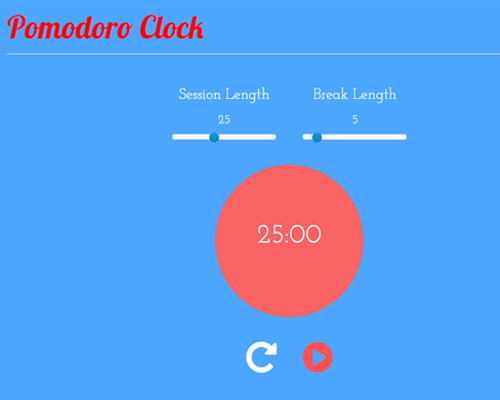
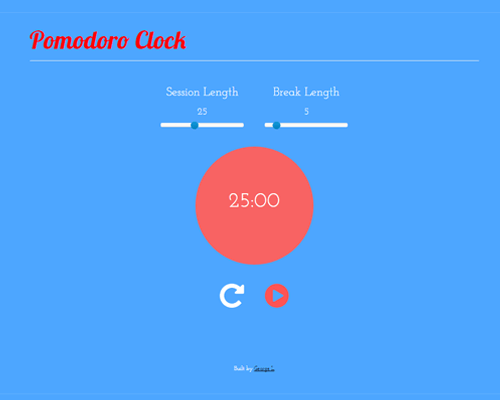
Add website to gallery. Fix some screenshots

diff --git a/index.html b/index.html
@@ -7,11 +7,11 @@
     <meta charset="utf-8">
     <title>George Loaiza</title>
     <meta name="description" content="My personal website">
-    <meta name="keywords" content = "George, Loaiza, website, portfolio, Spring Valley, Front End Developer, Programmer">
+    <meta name="keywords" content="George, Loaiza, website, portfolio, Spring Valley, Front End Developer, Programmer">
     <meta name="author" content="George Loaiza">
     <!-- Favicon
   –––––––––––––––––––––––––––––––––––––––––––––––––– -->
-   <link rel="shortcut icon" href="favicon.ico">
+    <link rel="shortcut icon" href="favicon.ico">
     <!-- Mobile Specific Metas
   –––––––––––––––––––––––––––––––––––––––––––––––––– -->
     <meta name="viewport" content="width=device-width, initial-scale=1">
@@ -24,7 +24,6 @@
     <link rel="stylesheet" href="https://maxcdn.bootstrapcdn.com/bootstrap/3.3.7/css/bootstrap.min.css">
     <link rel="stylesheet" href="https://maxcdn.bootstrapcdn.com/font-awesome/4.7.0/css/font-awesome.min.css">
     <link rel="stylesheet" href="css/style.css">
-    
     <!-- SCRIPTS------------------>
     <script src="https://ajax.googleapis.com/ajax/libs/jquery/1.12.4/jquery.min.js"></script>
     <script src="http://maxcdn.bootstrapcdn.com/bootstrap/3.3.7/js/bootstrap.min.js"></script>
@@ -32,35 +31,35 @@
 
 <body>
     <header id="header">
-       <div id = "nav anchor"></div>
+        <div id="nav anchor"></div>
         <nav>
-           <div class="container-fluid">
-           <div class="row">
-            <ul>
-               <div class="logo">
-                <li><a href="#header"> <i id="spaceman" class="fa fa-2x fa-grav" aria-hidden="true"></i> George Loaiza</a></li></div>
-                <div class="rest">
-                    <li><a href="#about">About</a></li>
-                    <li><a href="#gallery">Projects</a></li>
-                    <li><a href="#contact">Contact</a></li>
+            <div class="container-fluid">
+                <div class="row">
+                    <ul>
+                        <div class="logo">
+                            <li>
+                                <a href="#header"> <i id="spaceman" class="fa fa-2x fa-grav" aria-hidden="true"></i> George Loaiza</a>
+                            </li>
+                        </div>
+                        <div class="rest">
+                            <li><a href="#about">About</a></li>
+                            <li><a href="#gallery">Projects</a></li>
+                            <li><a href="#contact">Contact</a></li>
+                        </div>
+                    </ul>
                 </div>
-            </ul>
             </div>
-        </div>
         </nav>
-        
-        <div id ="hero" class="hero-text-box clearfix">
+        <div id="hero" class="hero-text-box clearfix">
             <div class="container">
                 <div class="row">
                     <div class="col-xs-12">
                         <h1>George Loaiza </h1></div>
                 </div>
                 <div class="col-xs-12">
-                    <h2>Front End Developer</h2></div> 
-                      <a class="btn-round btn-round-ghost js--scroll-to-gallery" href="#">
+                    <h2>Front End Developer</h2></div> <a class="btn-round btn-round-ghost js--scroll-to-gallery" href="#">
                        Check out my work
-                    </a> 
-                      <a class="btn-round btn-round-full js--scroll-to-contact " href="#">
+                    </a> <a class="btn-round btn-round-full js--scroll-to-contact " href="#">
                        Get in touch
                     </a> </div>
         </div>
@@ -75,7 +74,6 @@
                     <p class="about-blurb"> My lorem ipsum was two paragraphs long and i feel like this is a better representation of what my actual content would look like.</p>
                 </div>
                 <div class="col-md-4 col-sm-12"> <img id="profile" class="img-circle img-responsive" src="images/profile.png" alt="My profile picture"></div>
-
             </div>
         </div>
     </section>
@@ -86,110 +84,85 @@
                 <h2>Projects</h2>
                 <h3>Front End Projects</h3>
                 <div class="col-lg-4 col-sm-6 ">
-                        <div class="thumbnail caption"> <img class="caption-media" src="images/gallery/quote.png" alt="Random Quote Machine screenshot">
-                            <div class="caption-overlay">
-                                <h3 class="caption-overlay-title">Random Quote Machine</h3>
-                                <div class="caption-overlay-text">
-                                <p>
-                                Get random quotes at the touch of a button! If you really like one, there is a button to post it from your Twitter account. Made possible by the Forismatioc API.
-                                </p>
-                                <a class= "caption-gh" href="https://github.com/xchendo/Random-Quote-Machine"  target="_blank" >Source Code</a>
-                                <a class ="caption-cp" href="http://codepen.io/xchendo/full/BzRRgz/"  target="_blank" >Get enlightened!</a>
-                                </div>
-                            </div>
+                    <div class="thumbnail caption"> <img class="caption-media" src="images/gallery/quote.png" alt="Random Quote Machine screenshot">
+                        <div class="caption-overlay">
+                            <h3 class="caption-overlay-title">Random Quote Machine</h3>
+                            <div class="caption-overlay-text">
+                                <p> Get random quotes at the touch of a button! If you really like one, there is a button to post it from your Twitter account. Made possible by the Forismatioc API. </p> <a class="caption-gh" href="https://github.com/xchendo/Random-Quote-Machine" target="_blank">Source Code</a> <a class="caption-cp" href="http://codepen.io/xchendo/full/BzRRgz/" target="_blank">Get enlightened!</a> </div>
                         </div>
+                    </div>
                 </div>
                 <div class="col-lg-4 col-sm-6 ">
-                        <div class="thumbnail caption"> <img class="caption-media" src="images/gallery/weather4.png" alt="Weather app screenshot">
-                            <div class="caption-overlay">
-                                <h3 class="caption-overlay-title">Local Weather App</h3>
-                                <div class="caption-overlay-text">
-                                <p> Get a 4 day forecast for your area! Powered by the Wunderground API.</p>
-                                 <a class= "caption-gh" href="https://github.com/xchendo/weather-app" target="_blank" >Source Code</a>
-                                 <a class ="caption-cp" href="http://s.codepen.io/xchendo/debug/qNLgOZ" target="_blank" >Check the weather!</a>
-                               </div>
-                            </div>
+                    <div class="thumbnail caption"> <img class="caption-media" src="images/gallery/weather4.png" alt="Weather app screenshot">
+                        <div class="caption-overlay">
+                            <h3 class="caption-overlay-title">Local Weather App</h3>
+                            <div class="caption-overlay-text">
+                                <p> Get a 4 day forecast for your area! Powered by the Wunderground API.</p> <a class="caption-gh" href="https://github.com/xchendo/weather-app" target="_blank">Source Code</a> <a class="caption-cp" href="http://s.codepen.io/xchendo/debug/qNLgOZ" target="_blank">Check the weather!</a> </div>
                         </div>
+                    </div>
                 </div>
                 <div class="col-lg-4 col-sm-6 ">
-                        <div class="thumbnail caption"> <img class="caption-media" src="images/gallery/wiki.png" alt="Wikipedia Viewer screeenshot">
-                            <div class="caption-overlay">
-                                <h3 class="caption-overlay-title">Wikipedia Viewer</h3>
-                                <div class="caption-overlay-text">
-                                <p>Search through the Wikipedia website with a minimalistic viewer inspired by Google! Made possible with the Wikipedia API.</p>
-                                 <a class= "caption-gh" href="https://github.com/xchendo/WikiViewer" target="_blank" >Source Code</a>
-                                 <a class ="caption-cp" href="http://s.codepen.io/xchendo/debug/LkzgNR">Learn something new!</a>
-                                
-                                </div>
-                            </div>
+                    <div class="thumbnail caption"> <img class="caption-media" src="images/gallery/wiki.png" alt="Wikipedia Viewer screeenshot">
+                        <div class="caption-overlay">
+                            <h3 class="caption-overlay-title">Wikipedia Viewer</h3>
+                            <div class="caption-overlay-text">
+                                <p>Search through the Wikipedia website with a minimalistic viewer inspired by Google! Made possible with the Wikipedia API.</p> <a class="caption-gh" href="https://github.com/xchendo/WikiViewer" target="_blank">Source Code</a> <a class="caption-cp" href="http://s.codepen.io/xchendo/debug/LkzgNR">Learn something new!</a> </div>
                         </div>
+                    </div>
                 </div>
                 <div class="col-lg-4 col-sm-6 ">
-                        <div class="thumbnail caption"> <img class="caption-media" src="images/gallery/twitch.png" alt="Twitch.tv Viewer screenshot">
-                            <div class="caption-overlay">
-                                <h3 class="caption-overlay-title">Twitch Viewer</h3>
-                                <div class="caption-overlay-text">
-                                <p>See which Twitch streamers are online (or offline) and what games they're streaming! Made possible with the Twitchtv API.</p>
-                                 <a class= "caption-gh" href="https://github.com/xchendo/TwitchtvViewer" target="_blank" >Source Code</a>
-                                 <a class ="caption-cp" href="http://s.codepen.io/xchendo/debug/zBjXgd" target="_blank">Watch some games!</a>
-                                
-                                </div>
-                            </div>
+                    <div class="thumbnail caption"> <img class="caption-media" src="images/gallery/twitch.png" alt="Twitch.tv Viewer screenshot">
+                        <div class="caption-overlay">
+                            <h3 class="caption-overlay-title">Twitch Viewer</h3>
+                            <div class="caption-overlay-text">
+                                <p>See which Twitch streamers are online (or offline) and what games they're streaming! Made possible with the Twitchtv API.</p> <a class="caption-gh" href="https://github.com/xchendo/TwitchtvViewer" target="_blank">Source Code</a> <a class="caption-cp" href="http://s.codepen.io/xchendo/debug/zBjXgd" target="_blank">Watch some games!</a> </div>
                         </div>
+                    </div>
                 </div>
                 <div class="col-lg-4 col-sm-6 ">
-                        <div class="thumbnail caption"> <img class="caption-media" src="images/gallery/calculator.png" alt="Javascript Calculator screenshot">
-                            <div class="caption-overlay">
-                                <h3 class="caption-overlay-title">JS Calculator</h3>
-                                <div class="caption-overlay-text">
-                                    <p>Perform basic calculations online with this stylish calculator!</p>
-                                     <a class= "caption-gh" href="https://github.com/xchendo/Calculator/tree/master" target="_blank" >Source Code</a>
-                                      <a class="caption-cp" href="http://s.codepen.io/xchendo/debug/yJxKYr" target="_blank">Do some math!</a>
-                                    </div>
-                            </div>
+                    <div class="thumbnail caption"> <img class="caption-media" src="images/gallery/calculator.png" alt="Javascript Calculator screenshot">
+                        <div class="caption-overlay">
+                            <h3 class="caption-overlay-title">JS Calculator</h3>
+                            <div class="caption-overlay-text">
+                                <p>Perform basic calculations online with this stylish calculator!</p> <a class="caption-gh" href="https://github.com/xchendo/Calculator/tree/master" target="_blank">Source Code</a> <a class="caption-cp" href="http://s.codepen.io/xchendo/debug/yJxKYr" target="_blank">Do some math!</a> </div>
                         </div>
+                    </div>
                 </div>
                 <div class="col-lg-4 col-sm-6 ">
-                   
-                        <div class="thumbnail caption"> <img class="caption-media" src="images/gallery/pomodoro.png" alt="Pomodoro Timer screenshot">
-                            <div class="caption-overlay">
-                                <h3 class="caption-overlay-title">Pomodoro Timer</h3>
-                                <div class="caption-overlay-text">
-                                <p>Take your productivity to new heights with this timer! You can set custom work and break periods and be notified when times's up!</p>
-                                 <a class= "caption-gh" href="https://github.com/xchendo/Pomodoro-Timer" target="_blank" >Source Code</a>
-                                <a class="caption-cp" href="http://s.codepen.io/xchendo/debug/wWNqRW" target="_blank">Be productive!</a>
-                                </div>
-                                 
-                            </div>
+                    <div class="thumbnail caption"> <img class="caption-media" src="images/gallery/pomodoro.png" alt="Pomodoro Timer screenshot">
+                        <div class="caption-overlay">
+                            <h3 class="caption-overlay-title">Pomodoro Timer</h3>
+                            <div class="caption-overlay-text">
+                                <p>Take your productivity to new heights with this timer! You can set custom work and break periods and be notified when times's up!</p> <a class="caption-gh" href="https://github.com/xchendo/Pomodoro-Timer" target="_blank">Source Code</a> <a class="caption-cp" href="http://s.codepen.io/xchendo/debug/wWNqRW" target="_blank">Be productive!</a> </div>
                         </div>
-                    
+                    </div>
                 </div>
-                 <div class="col-lg-4 col-sm-6">
-                   
-                        <div class="thumbnail caption"> <img class="caption-media" src="images/gallery/simon.png" alt="Simon Game screenshot">
-                            <div class="caption-overlay">
-                                <h3 class="caption-overlay-title">Simon Game</h3>
-                                <div class="caption-overlay-text">
-                                <p>How good is your memory? Test it out by playing the classic Simon game right in your browser!</p> 
-                                <a class= "caption-gh" href="https://github.com/xchendo/Simon-Game" target="_blank">Source Code</a>
-                                <a class="caption-cp" href="http://s.codepen.io/xchendo/debug/ozjdWd" target="_blank">Test yourself!</a>  
-                                </div>
-                            </div>
+                <div class="col-lg-4 col-sm-6">
+                    <div class="thumbnail caption"> <img class="caption-media" src="images/gallery/simon.png" alt="Simon Game screenshot">
+                        <div class="caption-overlay">
+                            <h3 class="caption-overlay-title">Simon Game</h3>
+                            <div class="caption-overlay-text">
+                                <p>How good is your memory? Test it out by playing the classic Simon game right in your browser!</p> <a class="caption-gh" href="https://github.com/xchendo/Simon-Game" target="_blank">Source Code</a> <a class="caption-cp" href="http://s.codepen.io/xchendo/debug/ozjdWd" target="_blank">Test yourself!</a> </div>
                         </div>
+                    </div>
                 </div>
-                  <div class="col-lg-4 col-sm-6">
-                    
-                        <div class="thumbnail caption"> <img class="caption-media" src="images/gallery/tic.jpg" alt="Tic-tac-toe screenshot">
-                            <div class="caption-overlay">
-                                <h3 class="caption-overlay-title">Tic-Tac-Toe AI</h3>
-                                <div class="caption-overlay-text"><p>Play a match (or a couple) of Tic-Tac-Toe against the computer! Be careful, it doesn't like to lose.</p>
-                                 <a class= "caption-gh" href="https://github.com/xchendo/TicTacToe" target="_blank" >Source Code</a>
-                                 <a class="caption-cp" href="http://s.codepen.io/xchendo/debug/Kgyzkg" target="_blank">Play against the AI!</a>
-                                </div>
-                               
-                            </div>
+                <div class="col-lg-4 col-sm-6">
+                    <div class="thumbnail caption"> <img class="caption-media" src="images/gallery/tic.jpg" alt="Tic-tac-toe screenshot">
+                        <div class="caption-overlay">
+                            <h3 class="caption-overlay-title">Tic-Tac-Toe AI</h3>
+                            <div class="caption-overlay-text">
+                                <p>Play a match (or a couple) of Tic-Tac-Toe against the computer! Be careful, it doesn't like to lose.</p> <a class="caption-gh" href="https://github.com/xchendo/TicTacToe" target="_blank">Source Code</a> <a class="caption-cp" href="http://s.codepen.io/xchendo/debug/Kgyzkg" target="_blank">Play against the AI!</a> </div>
                         </div>
-                 
+                    </div>
+                </div>
+                <div class="col-lg-4 col-sm-6">
+                    <div class="thumbnail caption"> <img class="caption-media" src="images/gallery/website.png" alt="Screenshot of this website">
+                        <div class="caption-overlay">
+                            <h3 class="caption-overlay-title">My Personal Website</h3>
+                            <div class="caption-overlay-text">
+                                <p>This website! Look behind the scenes and see all the gritty HTML and CSS that went into this page.</p> <a class = "gallery-website" href="https://github.com/xchendo/xchendo.github.io" target="_blank">Source Code</a> </div>
+                        </div>
+                    </div>
                 </div>
             </div>
         </div>
@@ -211,9 +184,7 @@
                                     if($_GET['success'] ==-1){
                                         echo "<div class=\"form-messages error\">Oops! Something went wrong. Please try again! </div>";
                                 }
-                            ?>
-                            </div>
-
+                            ?> </div>
                             <input type="hidden" name="_next" value="#contact" />
                             <div class="form-group">
                                 <label class="col-lg-2 control-label" for="name">Name:</label>
@@ -226,7 +197,7 @@
                                     <input type="email" class="form-control" placeholder="example@email.com" name="email"> </div>
                             </div>
                             <div class="form-group">
-                                <label class="col-lg-2 control-label"  for="message">Message:</label>
+                                <label class="col-lg-2 control-label" for="message">Message:</label>
                                 <div class="col-lg-10">
                                     <textarea class="form-control" id="message" rows="3" placeholder="Your message here" name="message"></textarea>
                                     <input id="send-btn" class="btn btn-primary pull-right send-button" type="submit" value="Send"> </div>
@@ -240,7 +211,8 @@
                             <h3 style="text-align:center">Or send me an email!</h3>
                             <div class="col-xs-12 buttons" style="text-align:center">
                                 <div class="col-xs-12">
-                                    <div class="email"><a href="mailto:loaizageorge@gmail.com" target="_top"> <i id="email-icon" class="fa fa-envelope-o fa-2x" aria-hidden="true"></i></a>
+                                    <div class="email">
+                                        <a href="mailto:loaizageorge@gmail.com" target="_top"> <i id="email-icon" class="fa fa-envelope-o fa-2x" aria-hidden="true"></i></a>
                                         <h4>loaizageorge@gmail.com</h4> </div>
                                 </div>
                                 <h3 style="text-align:center">I'm also at these sites!</h3>
@@ -268,5 +240,5 @@
 </body>
 
 </html>
-<script   src="https://code.jquery.com/jquery-3.1.1.min.js"   integrity="sha256-hVVnYaiADRTO2PzUGmuLJr8BLUSjGIZsDYGmIJLv2b8="   crossorigin="anonymous"></script>
+<script src="https://code.jquery.com/jquery-3.1.1.min.js" integrity="sha256-hVVnYaiADRTO2PzUGmuLJr8BLUSjGIZsDYGmIJLv2b8=" crossorigin="anonymous"></script>
 <script src="js/scripts.js"></script>

diff --git a/css/style.css b/css/style.css
@@ -203,6 +203,7 @@ p {
     margin: 0 auto;
     height: auto;
     width: 70%;
+    display: inline;
     
     
         
@@ -281,7 +282,7 @@ p {
 }
 
 .caption:hover::before {
-    background: rgba(0, 0, 0, .7);
+    background: rgba(0, 0, 0, .85);
 }
 
 .caption-gh {
@@ -290,6 +291,24 @@ p {
 
 .caption-cp {
     float: right;
+}
+
+.gallery-website{
+    display: block;
+    text-align: center;
+}
+#gallery a{
+    list-style: none;
+}
+
+#gallery a:link,
+#gallery a:visited {
+    text-decoration: none;
+}
+
+#gallery a:hover,
+#gallery a:active {
+    color: #007edc;
 }
 
 
